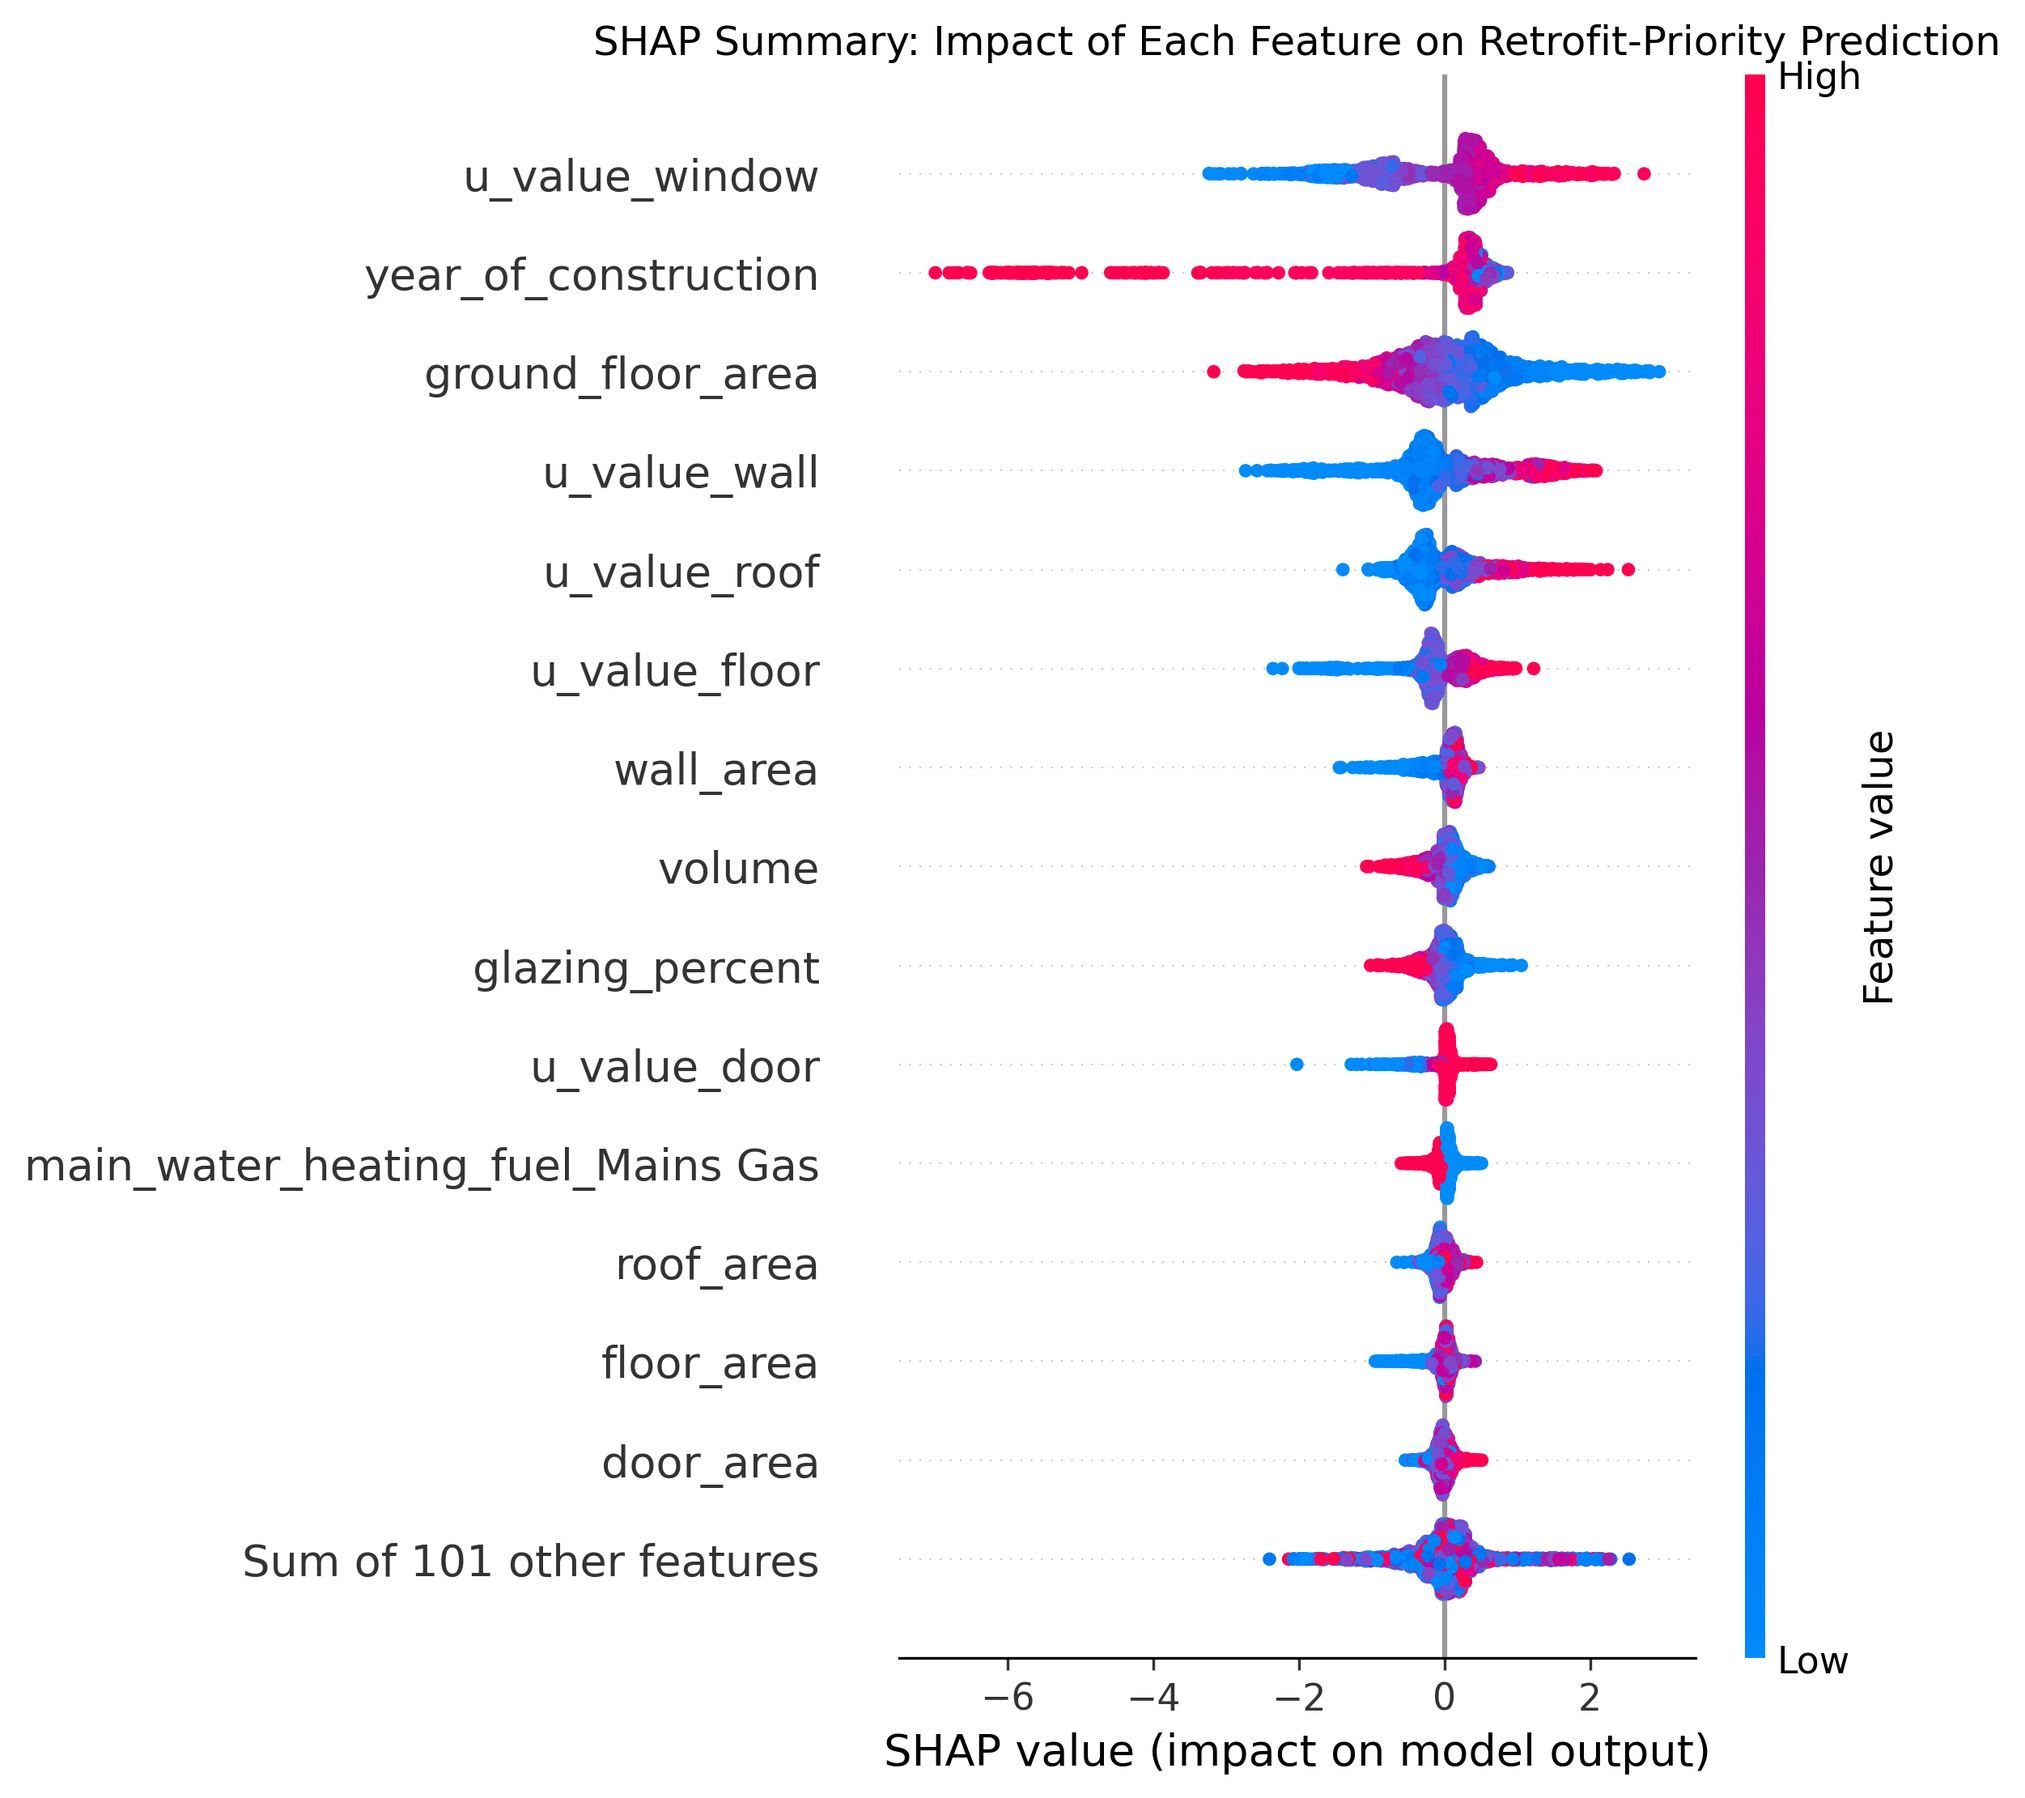
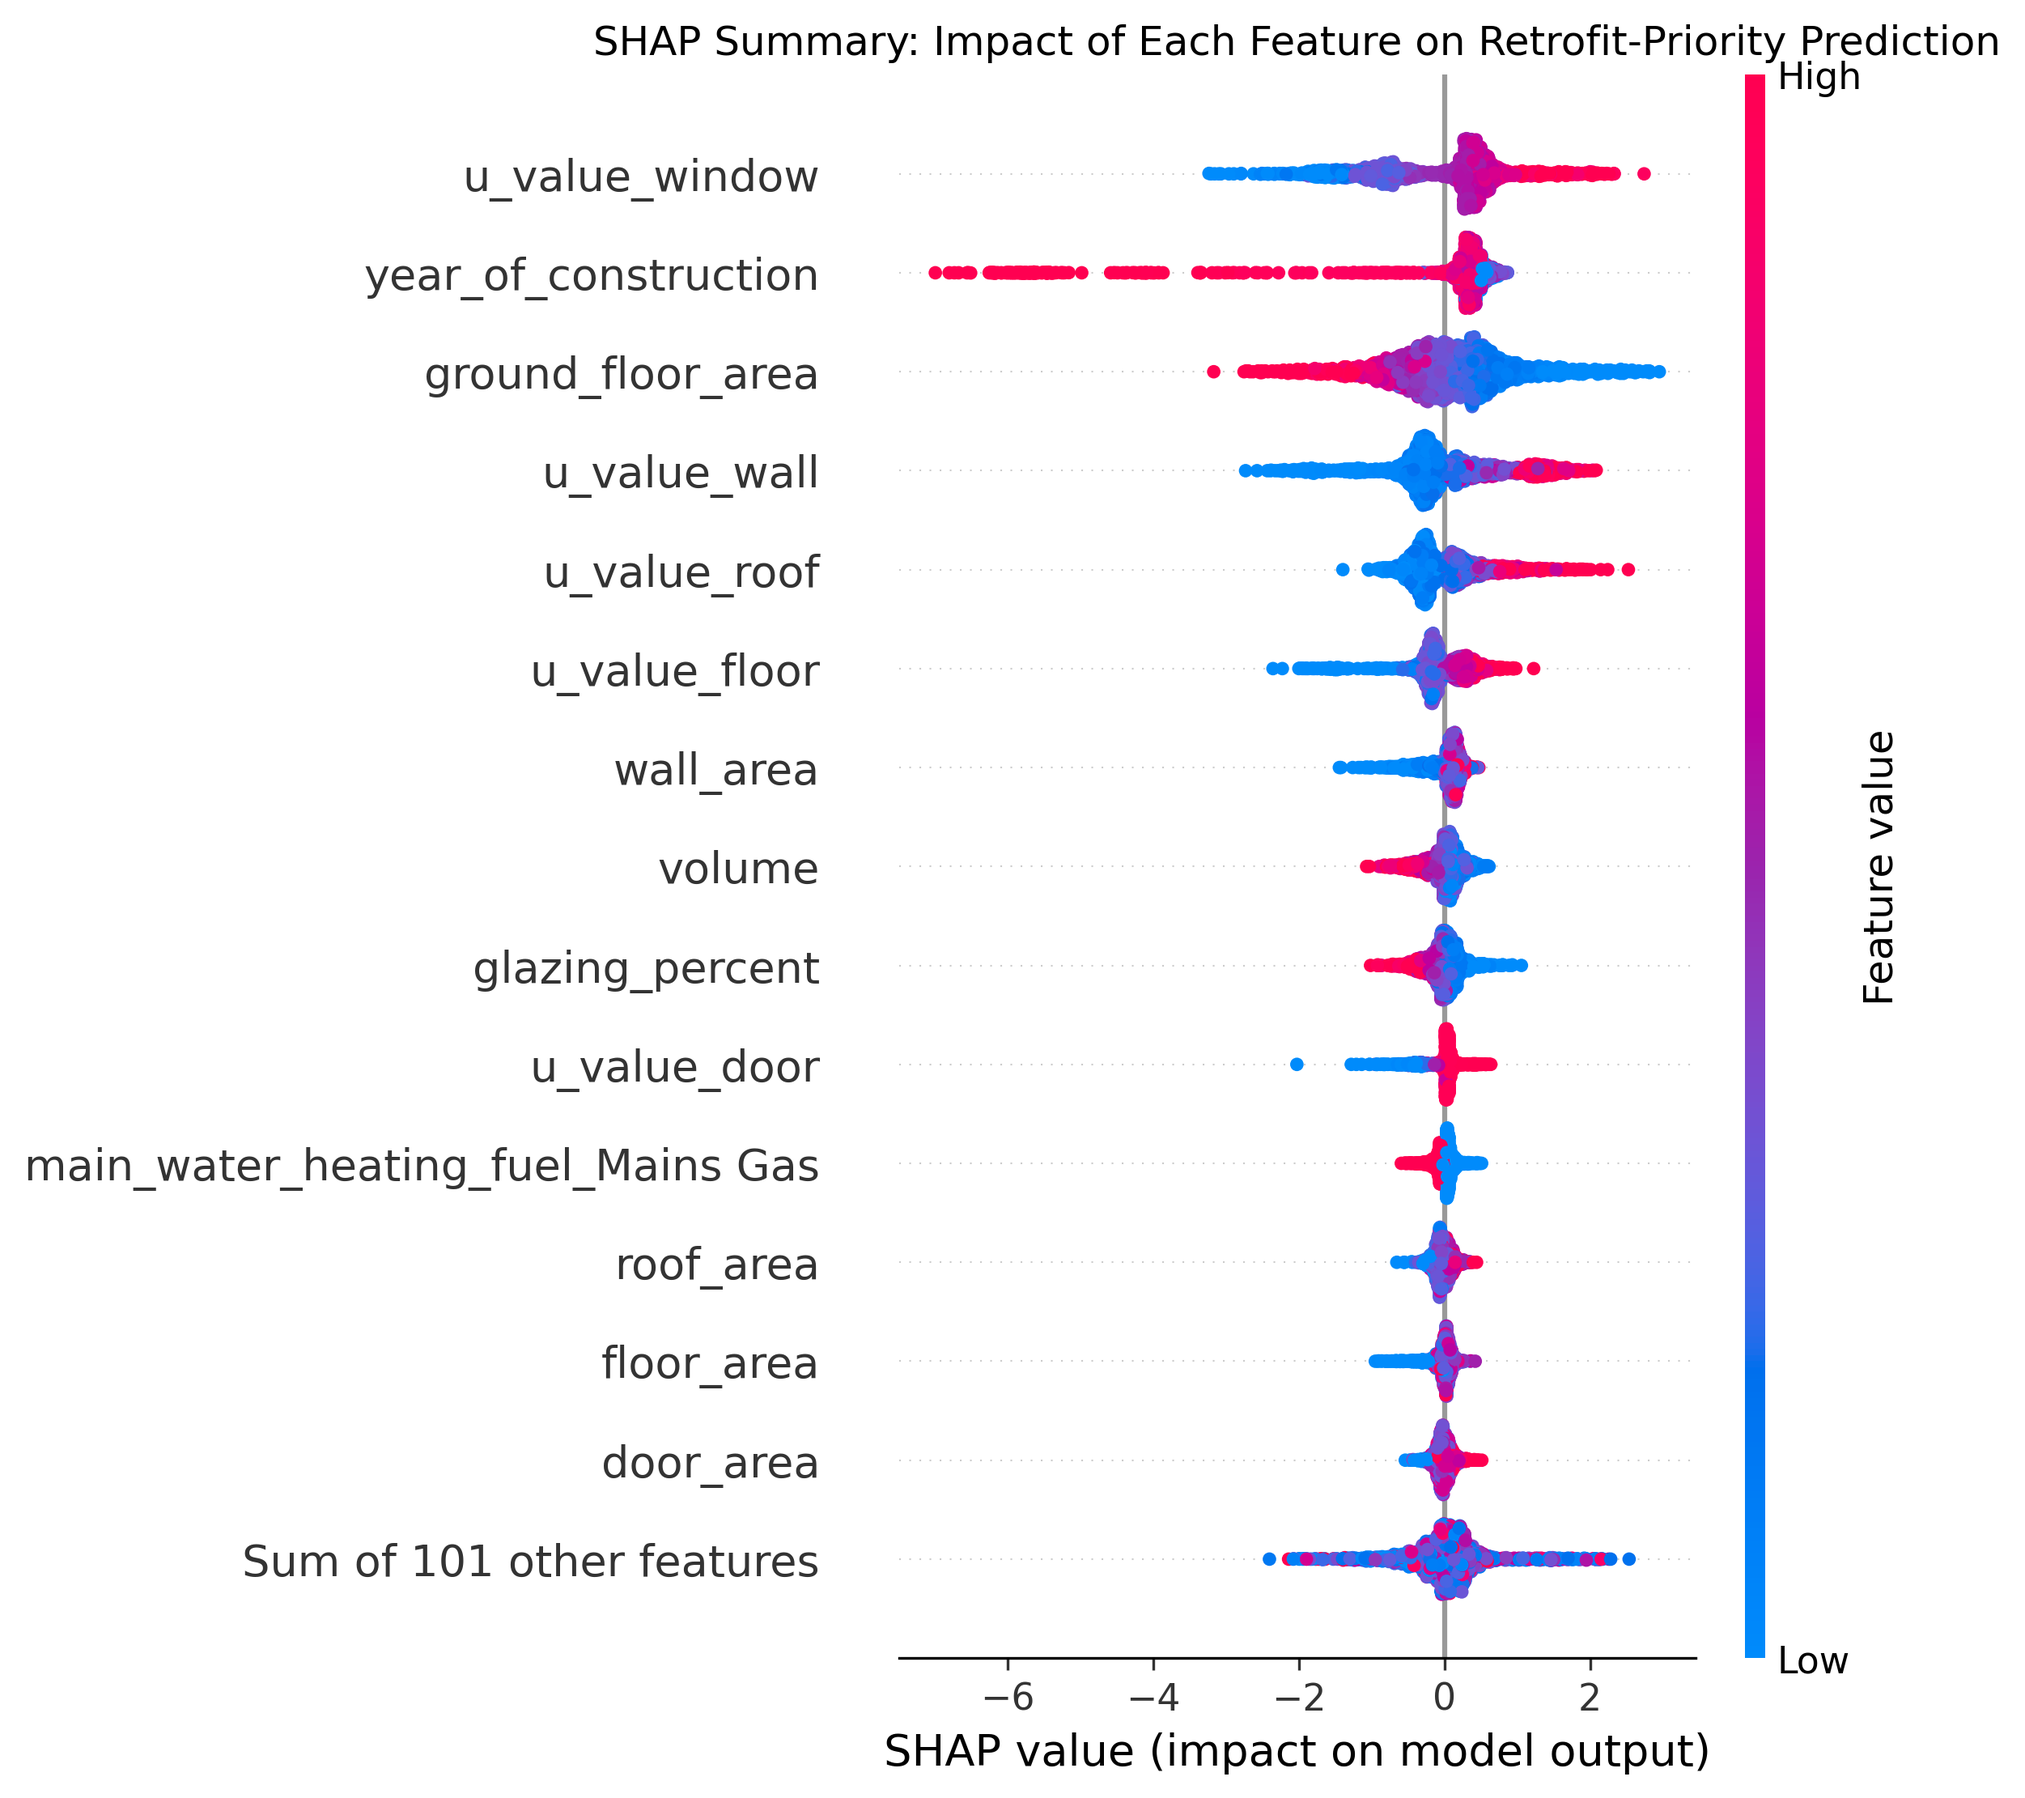
5-fold stratified cross-validation for the final model

diff --git a/src/evaluate_models.py b/src/evaluate_models.py
@@ -12,7 +12,8 @@ Run from the project root:
 import pandas as pd
 import joblib
 
-from sklearn.model_selection import train_test_split
+from sklearn.base import clone
+from sklearn.model_selection import train_test_split, StratifiedKFold, cross_validate
 from sklearn.metrics import (
     classification_report,
     confusion_matrix,
@@ -39,9 +40,21 @@ from train_models import stratified_sample
 MODELS_DIR = PROJECT_ROOT / "models"
 BEST_MODEL_FILE = MODELS_DIR / "best_model.joblib"
 
+# Cross-validation settings for the final model.
+CV_FOLDS = 5
+CV_SCORING = {
+    "accuracy": "accuracy",
+    "balanced_accuracy": "balanced_accuracy",
+    "precision_priority": "precision",
+    "recall_priority": "recall",
+    "f1_priority": "f1",
+    "f1_macro": "f1_macro",
+    "roc_auc": "roc_auc",
+}
 
-def load_test_data():
-    """Load model-ready data and reproduce the test split."""
+
+def load_train_test_data():
+    """Load model-ready data and reproduce the train/test split."""
     if not MODEL_READY_DATA_FILE.exists():
         raise FileNotFoundError(
             f"Model-ready data not found: {MODEL_READY_DATA_FILE}. "
@@ -54,7 +67,7 @@ def load_test_data():
     X = df.drop(columns=[TARGET_COLUMN])
     y = df[TARGET_COLUMN]
 
-    _, X_test, _, y_test = train_test_split(
+    X_train, X_test, y_train, y_test = train_test_split(
         X,
         y,
         test_size=0.20,
@@ -62,7 +75,7 @@ def load_test_data():
         random_state=RANDOM_STATE,
     )
 
-    return X_test, y_test
+    return X_train, X_test, y_train, y_test
 
 
 def evaluate_best_model(model, X_test, y_test):
@@ -131,6 +144,58 @@ def save_outputs(summary, y_test, y_pred):
     )
 
 
+def run_cross_validation(model, X_train, y_train):
+    """
+    Run stratified k-fold cross-validation on the training split, using the
+    same (already-tuned) hyperparameters as the saved final model.
+
+    A fresh, unfitted clone of the pipeline is used so each fold trains from
+    scratch. This runs on the training split only, keeping the held-out test
+    set exclusively for the single-split evaluation above.
+    """
+    print(f"\nRunning {CV_FOLDS}-fold stratified cross-validation on the final model...")
+
+    unfitted_pipeline = clone(model)
+    cv = StratifiedKFold(n_splits=CV_FOLDS, shuffle=True, random_state=RANDOM_STATE)
+
+    cv_results = cross_validate(
+        unfitted_pipeline,
+        X_train,
+        y_train,
+        cv=cv,
+        scoring=CV_SCORING,
+        n_jobs=-1,
+    )
+
+    return cv_results
+
+
+def save_cross_validation_results(cv_results):
+    """Save per-fold scores and a mean/std summary table."""
+    fold_scores = {
+        metric: cv_results[f"test_{metric}"] for metric in CV_SCORING
+    }
+    fold_scores_df = pd.DataFrame(fold_scores)
+    fold_scores_df.index.name = "fold"
+    fold_scores_df.index = fold_scores_df.index + 1
+
+    fold_scores_path = RESULTS_TABLES_DIR / "cv_5fold_raw_scores.csv"
+    fold_scores_df.to_csv(fold_scores_path)
+
+    summary_df = pd.DataFrame(
+        {
+            "metric": list(CV_SCORING.keys()),
+            "mean": [fold_scores_df[m].mean() for m in CV_SCORING],
+            "std": [fold_scores_df[m].std() for m in CV_SCORING],
+        }
+    ).round(4)
+
+    summary_path = RESULTS_TABLES_DIR / "cv_5fold_summary.csv"
+    summary_df.to_csv(summary_path, index=False)
+
+    return summary_df, fold_scores_path, summary_path
+
+
 def main():
     """Run final best-model evaluation."""
     print("Starting final best-model evaluation...")
@@ -142,15 +207,24 @@ def main():
         )
 
     model = joblib.load(BEST_MODEL_FILE)
-    X_test, y_test = load_test_data()
+    X_train, X_test, y_train, y_test = load_train_test_data()
 
     summary, y_pred = evaluate_best_model(model, X_test, y_test)
     save_outputs(summary, y_test, y_pred)
 
     print("Final best-model evaluation complete.")
-    print("Evaluation summary:")
+    print("Single-split evaluation summary:")
     for metric, value in summary.items():
         print(f"{metric}: {value:.4f}" if value is not None else f"{metric}: None")
+
+    cv_results = run_cross_validation(model, X_train, y_train)
+    cv_summary_df, fold_scores_path, summary_path = save_cross_validation_results(cv_results)
+
+    print(f"\n{CV_FOLDS}-fold cross-validation complete.")
+    print(f"Per-fold scores saved to: {fold_scores_path}")
+    print(f"Mean/std summary saved to: {summary_path}")
+    print("Cross-validation summary (mean ± std):")
+    print(cv_summary_df.to_string(index=False))
 
 
 if __name__ == "__main__":

diff --git a/README.md b/README.md
@@ -482,6 +482,30 @@ Final best-model performance (tuned Hist Gradient Boosting):
 | Macro F1-score              | 0.8918 |
 | ROC-AUC                     | 0.9704 |
 
+### Cross-Validation (5-Fold)
+
+Implemented in `run_cross_validation()` in [`src/evaluate_models.py`](src/evaluate_models.py).
+
+The table above reports performance on a single 80/20 stratified train-test split, which is how the final model is actually evaluated for deployment (trained once on the training rows, scored once on rows it has never seen). A single split is simple and matches how the model would really be trained and shipped, but it only gives one sample of performance, so it can't show how much that performance might vary with a different random split of the data.
+
+To check that result isn't a lucky (or unlucky) split, 5-fold stratified cross-validation was also run, using the same tuned hyperparameters, on the training portion of the data only (80,000 rows; the held-out test set was kept completely untouched for the single-split evaluation above). Each fold trains a fresh copy of the full pipeline (preprocessing + Hist Gradient Boosting) from scratch and evaluates it on the remaining fold.
+
+5-fold cross-validation results (mean ± std across folds):
+
+| Metric                      |   Mean | Std    |
+| ---------------------------- | -----: | -----: |
+| Accuracy                    | 0.9589 | 0.0015 |
+| Balanced accuracy           | 0.8521 | 0.0073 |
+| Retrofit-priority precision | 0.9651 | 0.0018 |
+| Retrofit-priority recall    | 0.9896 | 0.0017 |
+| Retrofit-priority F1-score  | 0.9772 | 0.0008 |
+| Macro F1-score              | 0.8862 | 0.0047 |
+| ROC-AUC                     | 0.9673 | 0.0023 |
+
+Full results: [`results/tables/cv_5fold_summary.csv`](results/tables/cv_5fold_summary.csv) (mean/std) and [`results/tables/cv_5fold_raw_scores.csv`](results/tables/cv_5fold_raw_scores.csv) (per-fold scores).
+
+The cross-validated means are close to the single-split test metrics (within roughly 0.01-0.02 on every metric) and the standard deviations are small (all under 0.01), so the single-split test performance reported above is not an artefact of a favourable split. Both are shown because they answer different questions: the single-split test set reflects the actual final model's performance on genuinely unseen data, while cross-validation reflects the stability of Hist Gradient Boosting with these hyperparameters across different random partitions of the training data.
+
 ### Model Comparison by Macro F1-Score
 
 ![Model Comparison Macro F1](results/figures/model_comparison_macro_f1.png)
@@ -705,6 +729,8 @@ results/tables/best_model_classification_report.csv
 results/tables/best_model_confusion_matrix.csv
 results/tables/hgb_tuning_before_after.csv
 results/tables/hgb_best_params.csv
+results/tables/cv_5fold_summary.csv
+results/tables/cv_5fold_raw_scores.csv
 results/tables/permutation_importance.csv
 results/tables/shap_feature_importance.csv
 results/tables/shap_vs_permutation_importance.csv
